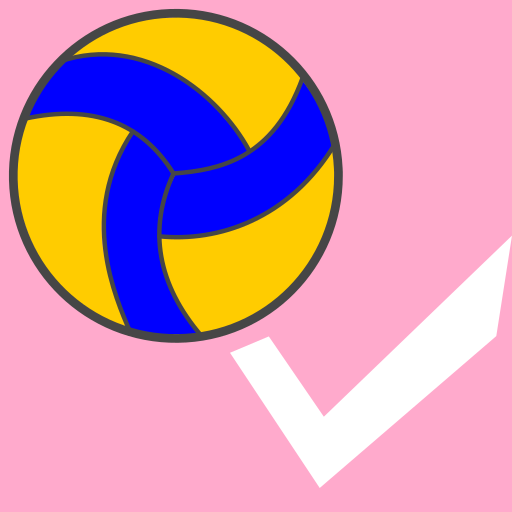
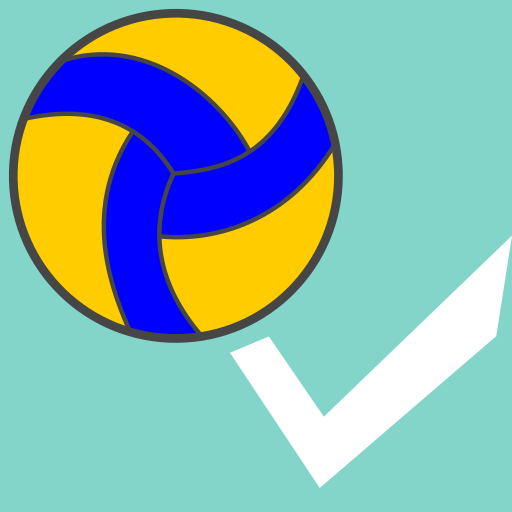
Update app color scheme and assets
- Changed the background color for the adaptive launcher icon from #FFAACC to #82d5c8 in `generate-android-icons.sh` and `pubspec.yaml`.
- Updated the `ic_launcher_background` color in `colors.xml` to #82d5c8.
- Modified the `color_teal_icon_android.svg` and `color_teal_icon_android.png` assets to reflect the new color.
- Adjusted the Inkscape document settings in `inkscape.svg`.
- Updated the README to reflect the color change to light blue/mint.

diff --git a/README.md b/README.md
@@ -173,6 +173,7 @@ Volleyball Assistenz-App für Trainer, Spieler und Schiedsrichter.
 - [x] app name aktuell mit unterstich
 - [x] import / export (teams, punktewertung, taktiktafel)
   - [ ] diff / import-date vs. änderungsdatum
-- [ ] farbe rosa in die app übernehmen?
+- [x] farbe rosa in die app übernehmen?
+      -> Nehme doch das hellblau/mint
 - [ ] varlaufdarstellung wie einen versionsgraphen
 - [ ] Diagramm mit differenzpunkten?
